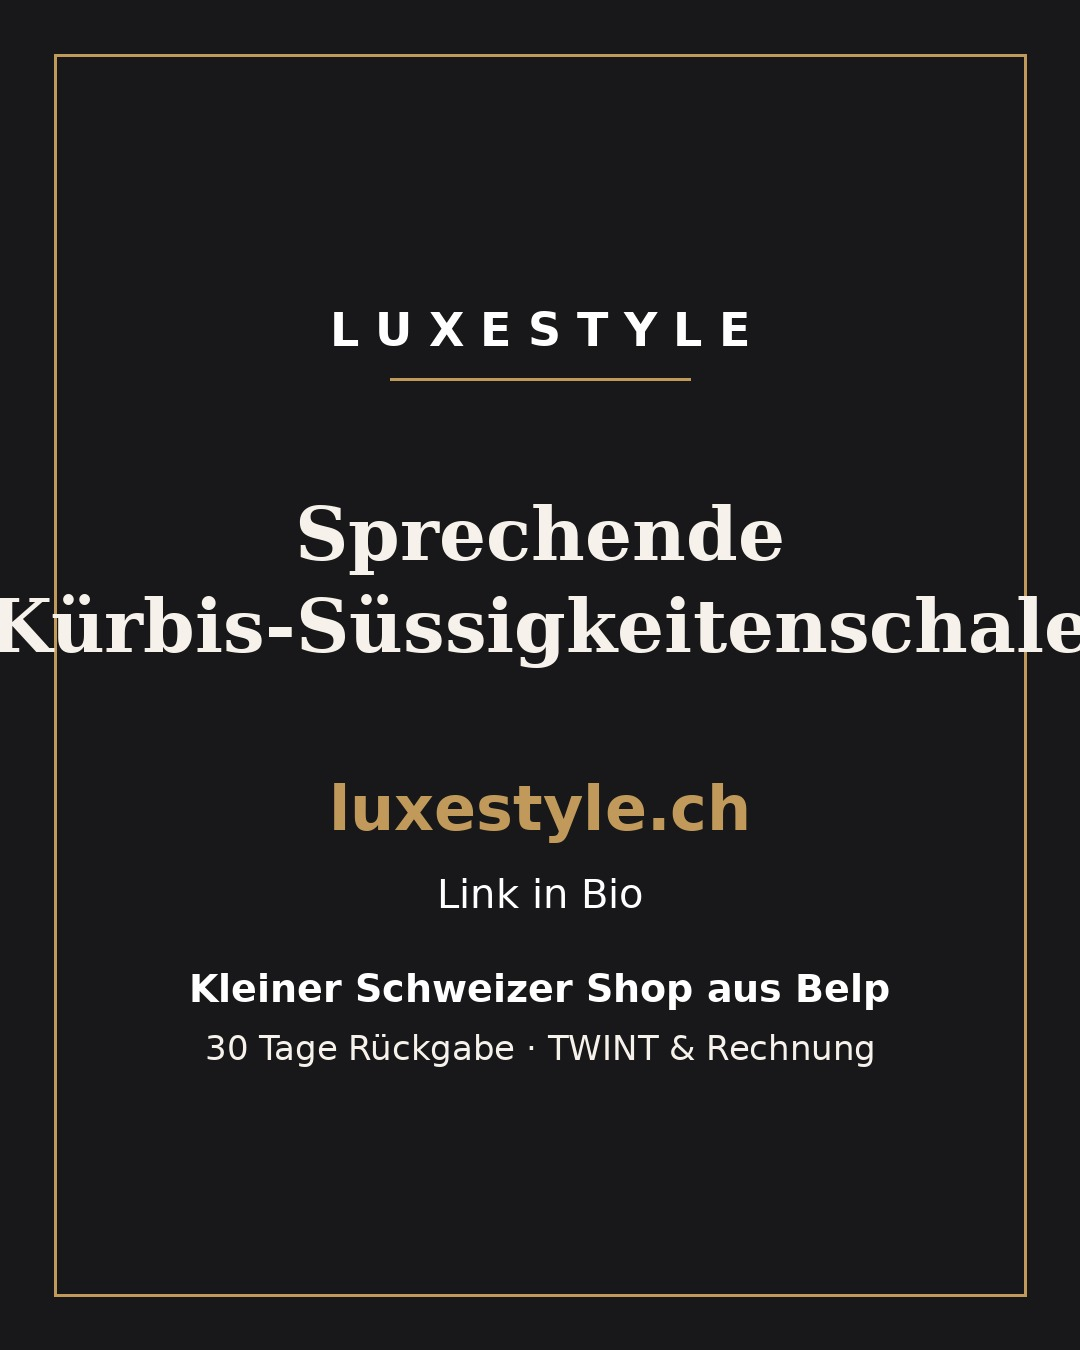
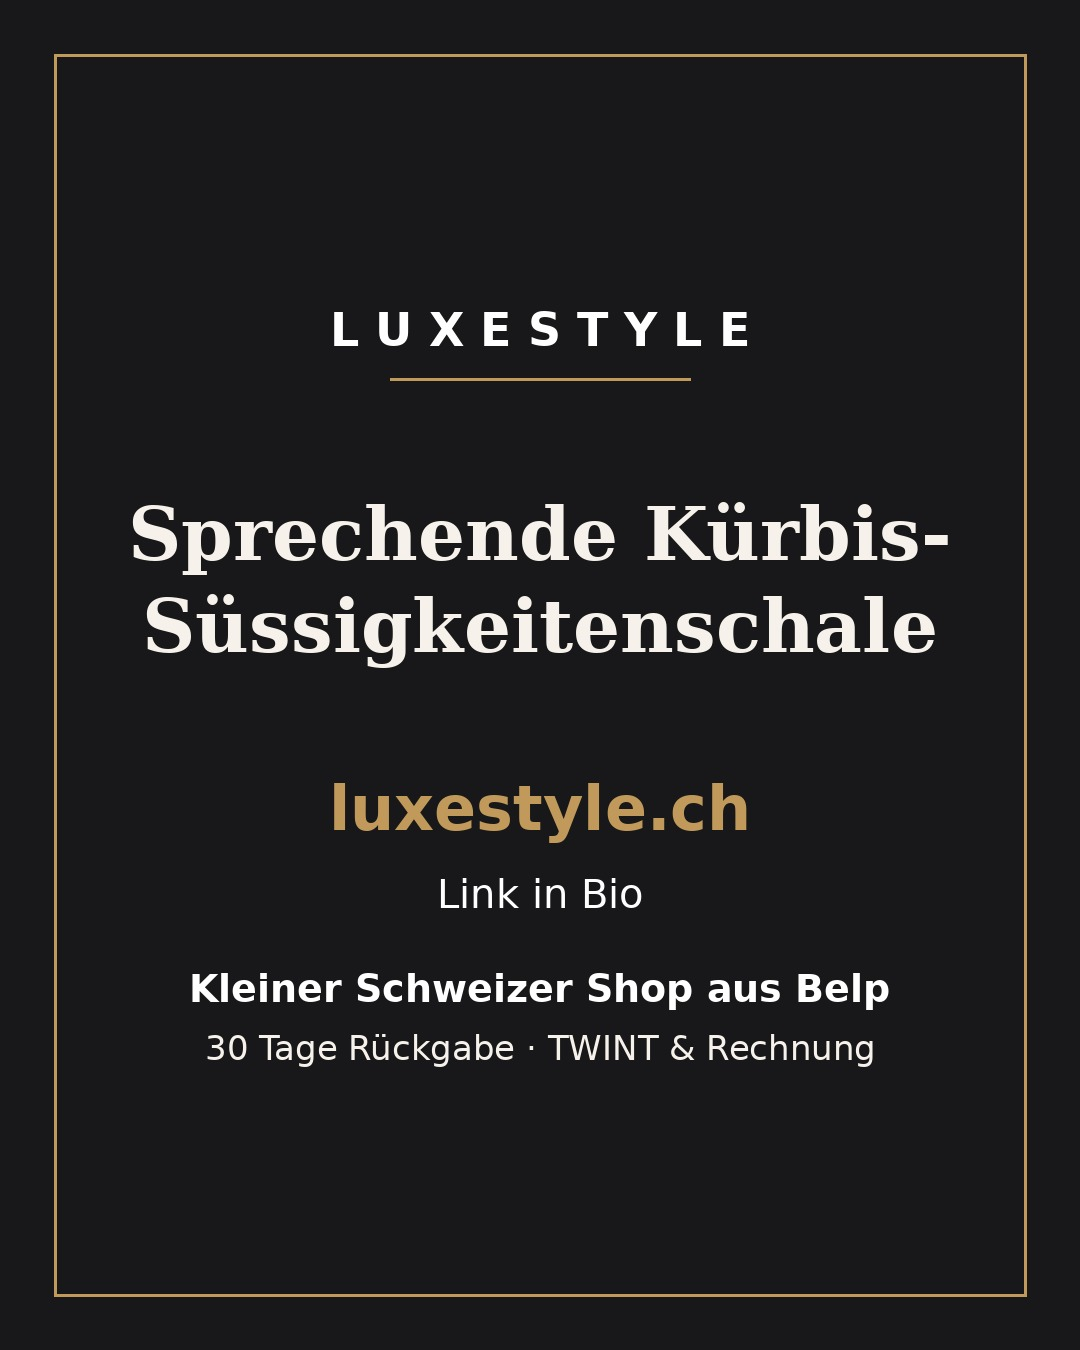
Halloween-Social: Zwischenstand des Nachbesserungs-Agenten (CTA-Umbruch, Familie fuer Top-Sets, Pin-OCR) + Ledger [skip ci]
Claude-Session: https://claude.ai/code/session_01MCYpvsTg9cwVa1SwQZ39f3

Changed region(s): [[0.0, 0.3733, 1.0, 0.4978]]

diff --git a/automation/bild_formate.py b/automation/bild_formate.py
@@ -61,6 +61,85 @@ F_FALLBACK = "/usr/share/fonts/truetype/dejavu/DejaVuSans-Bold.ttf"
 UA = {"User-Agent": "Mozilla/5.0 (LuxeStyle bild_formate)"}
 
 
+# ---------------------------------------------------------------- Bildtext (OCR) — Prüfer 23.09.2026 22:58
+# social/pins/aufblasbarer-leuchtender-fga975036.jpg trug «LIGHT-UP AIRBLOWN INFLATABLES INDOOR & OUTDOOR USE»: englischer
+# Lieferantentext im Pin. GEMESSEN an allen 11 Pin-Quellbildern des Manifests: das Aufblas-Bild liest bildtext_pruefen.woerter()
+# bei 1× mit 3 Wörtern (UNTER der Schwelle 4), bei 2× mit 4; alle zehn sauberen Bilder lesen 0 bei 1× UND 2×. Darum ZWEI
+# Lesarten (1× und 2×, längste Kante ≤ 3200 px) und das Maximum — ab WORTGRENZE (4) wird das Bild verworfen und das nächste
+# Produktbild versucht; trägt jedes Bild Text, wird das Produkt übersprungen (Vermerk social/pins/_uebersprungen.tsv).
+# Jede Messung steht in social/pins/_bildtext.tsv (name, url ohne ?v=, woerter, geprueft); der Pinner liest sie, damit er für
+# ein Text-Hauptbild NICHT aufs Rohbild zurückfällt. Ohne tesseract (bildtext_pruefen beendet sich beim Import mit exit 0)
+# wird nichts verworfen und nichts als «sauber» eingetragen — −1 heisst unbekannt, nicht sauber.
+def _ocr_laden():
+    try:
+        import bildtext_pruefen as bp
+        return bp.woerter, int(bp.WORTGRENZE)
+    except (ImportError, SystemExit, Exception):
+        return None, 4
+
+
+_OCR_WOERTER, WORTGRENZE = _ocr_laden()
+BILDTEXT_NAME, UEBERSPRUNGEN_NAME = "_bildtext.tsv", "_uebersprungen.tsv"
+BT_SPALTEN = ["name", "url", "woerter", "geprueft"]
+_jetzt = lambda: datetime.now(timezone.utc).strftime("%Y-%m-%dT%H:%M:%SZ")
+
+
+def bildtext_lesen():
+    p = os.path.join(OUT, BILDTEXT_NAME)
+    if not os.path.exists(p):
+        return {}
+    with open(p, newline="", encoding="utf-8") as fh:
+        return {r["url"]: r for r in csv.DictReader(fh, delimiter="\t")}
+
+
+def bildtext_schreiben(bt):
+    p = os.path.join(OUT, BILDTEXT_NAME)
+    os.makedirs(OUT, exist_ok=True)
+    tmp = p + ".tmp"
+    with open(tmp, "w", newline="", encoding="utf-8") as fh:
+        w = csv.DictWriter(fh, fieldnames=BT_SPALTEN, delimiter="\t", lineterminator="\n")
+        w.writeheader()
+        for k in sorted(bt):
+            w.writerow({c: bt[k].get(c, "") for c in BT_SPALTEN})
+    os.replace(tmp, p)
+
+
+def bildtext_woerter(im, url, name, bt):
+    """Grösste Wortzahl aus zwei Lesarten (1×, 2×); −1 = nicht messbar. Ergebnis je URL (ohne ?v=) gemerkt."""
+    key = url.split("?")[0]
+    if key in bt:
+        try:
+            return int(bt[key]["woerter"])
+        except (TypeError, ValueError):
+            pass
+    if _OCR_WOERTER is None:
+        return -1
+    try:
+        g = im.convert("L")
+        n = len(_OCR_WOERTER(g))
+        s = min(2.0, 3200 / max(g.size))
+        if s > 1.05:
+            n = max(n, len(_OCR_WOERTER(g.resize((int(g.width * s), int(g.height * s)), Image.LANCZOS))))
+    except Exception:
+        return -1
+    bt[key] = {"name": name, "url": key, "woerter": str(n), "geprueft": _jetzt()}
+    if not DRY:
+        bildtext_schreiben(bt)
+    return n
+
+
+def uebersprungen_merken(name, grund):
+    if DRY:
+        return
+    p = os.path.join(OUT, UEBERSPRUNGEN_NAME)
+    os.makedirs(OUT, exist_ok=True)
+    neu = not os.path.exists(p)
+    with open(p, "a", encoding="utf-8") as fh:
+        if neu:
+            fh.write("name\tgrund\tgeprueft\n")
+        fh.write(f"{name}\t{grund}\t{_jetzt()}\n")
+
+
 def font(pfad, px):
     try:
         return ImageFont.truetype(pfad, px)
@@ -105,7 +184,7 @@ def produkte(handles):
         teil = handles[i:i + 20]
         felder = " ".join(
             f'p{j}: productByIdentifier(identifier:{{handle:{json.dumps(h)}}}){{ handle title status onlineStoreUrl '
-            f'priceRangeV2{{ minVariantPrice{{amount}} maxVariantPrice{{amount}} }} images(first:1){{ nodes{{ url width height }} }} }}'
+            f'priceRangeV2{{ minVariantPrice{{amount}} maxVariantPrice{{amount}} }} images(first:6){{ nodes{{ url width height }} }} }}'
             for j, h in enumerate(teil))
         d = gql("query{ " + felder + " }")
         for j, h in enumerate(teil):
@@ -116,7 +195,7 @@ def produkte(handles):
             aus[h] = {"title": p["title"], "status": p["status"], "url": p["onlineStoreUrl"],
                       "min": float(p["priceRangeV2"]["minVariantPrice"]["amount"]),
                       "max": float(p["priceRangeV2"]["maxVariantPrice"]["amount"]),
-                      "bild": n[0] if n else None}
+                      "bild": n[0] if n else None, "bilder": n}   # bilder: Hauptbild zuerst, bis 5 Ersatzbilder (OCR-Tor)
     return aus
 
 
@@ -352,7 +431,9 @@ def index_lesen():
         return {(r["name"], r["format"]): r for r in csv.DictReader(fh, delimiter="\t")}
 
 
-SPALTEN = ["name", "format", "datei", "preis_min", "preis_max", "preis_text", "bild", "quelle_px", "modus", "kb", "sha1", "erstellt"]
+# hauptbild (23.09. abends): das Hauptbild des Shops zur Renderzeit — `bild` ist die tatsächlich genutzte Quelle (kann nach dem
+# OCR-Tor ein Ersatzbild sein). Der Pinner prüft «Hauptbild getauscht?» gegen hauptbild, sonst gälte jede Ersatz-Fassung als alt.
+SPALTEN = ["name", "format", "datei", "preis_min", "preis_max", "preis_text", "bild", "hauptbild", "quelle_px", "modus", "kb", "sha1", "erstellt"]
 
 
 def index_schreiben(idx):
@@ -377,19 +458,40 @@ def schreiben(daten, rel):
 
 
 # ---------------------------------------------------------------- Ablauf
-def verarbeiten(name, bild_url, titel, pmin, pmax, formate, idx, ergebnisse, bekannte_px=None):
+def verarbeiten(name, bilder, titel, pmin, pmax, formate, idx, ergebnisse, bt=None):
+    """`bilder`: Liste {url[,width,height]} — Hauptbild zuerst. Das erste Bild, das gross genug ist UND kein Lieferantentext
+    trägt (OCR-Tor, Prüfer 23.09.), wird gerendert; die Gründe der verworfenen stehen im Log."""
     name = re.sub(r"[^a-z0-9-]+", "-", name.lower()).strip("-")[:120]
-    if bekannte_px and min(bekannte_px) < MIN_PX:
-        print(f"  ✗ {name}: Quelle {bekannte_px[0]}×{bekannte_px[1]} < {MIN_PX} px → abgelehnt")
-        ergebnisse.append({"name": name, "status": "abgelehnt", "px": bekannte_px}); return
-    try:
-        im = vorbereiten(laden(bild_url))
-    except Exception as e:
-        print(f"  ✗ {name}: Bild nicht ladbar ({str(e)[:80]})")
-        ergebnisse.append({"name": name, "status": "fehler"}); return
-    if min(im.size) < MIN_PX:
-        print(f"  ✗ {name}: Quelle {im.size[0]}×{im.size[1]} < {MIN_PX} px → abgelehnt")
-        ergebnisse.append({"name": name, "status": "abgelehnt", "px": im.size}); return
+    bt = {} if bt is None else bt
+    hauptbild = (bilder[0]["url"] if bilder else "").split("?")[0]
+    im, quelle, gruende = None, None, []
+    for k, b in enumerate(bilder, 1):
+        u = b["url"]
+        px = (b.get("width"), b.get("height")) if b.get("width") and b.get("height") else None
+        if px and min(px) < MIN_PX:
+            gruende.append(f"Bild {k} {px[0]}×{px[1]} < {MIN_PX} px"); continue
+        try:
+            kand = vorbereiten(laden(u))
+        except Exception as e:
+            gruende.append(f"Bild {k} nicht ladbar ({str(e)[:60]})"); continue
+        if min(kand.size) < MIN_PX:
+            gruende.append(f"Bild {k} {kand.size[0]}×{kand.size[1]} < {MIN_PX} px"); continue
+        n = bildtext_woerter(kand, u, name, bt)
+        if n >= WORTGRENZE:
+            print(f"  ✗ {name}: Bild {k} trägt Text ({n} Wörter, OCR) → nächstes Bild")
+            gruende.append(f"Bild {k} Text ({n} Wörter)"); continue
+        im, quelle = kand, u
+        if k > 1:
+            print(f"  ↷ {name}: Bild {k} statt Hauptbild ({'; '.join(gruende)})")
+        break
+    if im is None:
+        grund = "; ".join(gruende) or "kein Bild"
+        status = ("bildtext" if any("Text" in g for g in gruende) else
+                  "abgelehnt" if any(" px" in g for g in gruende) else "fehler")
+        print(f"  ✗ {name}: übersprungen — {grund}")
+        if status == "bildtext":
+            uebersprungen_merken(name, grund)
+        ergebnisse.append({"name": name, "status": status}); return
     im = rahmen_weg(im)  # nach der Grössenprüfung: 1–3 px Rahmen dürfen ein 600er-Bild nicht durchfallen lassen
     for fmt in formate:
         if fmt == "pin":
@@ -412,7 +514,7 @@ def verarbeiten(name, bild_url, titel, pmin, pmax, formate, idx, ergebnisse, bek
             schreiben(daten, rel)
             idx[(name, fmt)] = {"name": name, "format": fmt, "datei": rel, "preis_min": f"{pmin:.2f}" if pmin is not None else "",
                                 "preis_max": f"{pmax:.2f}" if pmax is not None else "", "preis_text": pt,
-                                "bild": bild_url.split("?")[0], "quelle_px": f"{im.size[0]}x{im.size[1]}", "modus": log["modus"],
+                                "bild": quelle.split("?")[0], "hauptbild": hauptbild, "quelle_px": f"{im.size[0]}x{im.size[1]}", "modus": log["modus"],
                                 "kb": str(kb), "sha1": sha, "erstellt": datetime.now(timezone.utc).strftime("%Y-%m-%dT%H:%M:%SZ")}
         else:
             zeile += " [DRY, nicht geschrieben]"
@@ -455,18 +557,19 @@ def main():
     a = ap.parse_args()
     formate = [f for f in a.formate.split(",") if f in FORMATE]
     idx = index_lesen()
+    bt = bildtext_lesen()
     erg = []
-    print(f"bild_formate {'DRY ' if DRY else ''}→ {OUT} · Formate {','.join(formate)}")
+    print(f"bild_formate {'DRY ' if DRY else ''}→ {OUT} · Formate {','.join(formate)} · OCR-Tor {'aktiv' if _OCR_WOERTER else 'NICHT messbar'}")
     if a.url:
         if not a.name:
             ap.error("--url braucht --name")
-        verarbeiten(a.name, a.url, a.titel, a.preis, a.preis, formate, idx, erg)
+        verarbeiten(a.name, [{"url": a.url}], a.titel, a.preis, a.preis, formate, idx, erg, bt)
     if a.posts_ready:
         pfad = os.path.join(REPO, "social", "posts_image.csv")
         with open(pfad, newline="", encoding="utf-8") as fh:
             zeilen = [r for r in csv.DictReader(fh) if r.get("status") == "ready"][: a.posts_ready]
         for r in zeilen:
-            verarbeiten(r["id"], r["image_url"], None, None, None, ["ig45"], idx, erg)
+            verarbeiten(r["id"], [{"url": r["image_url"]}], None, None, None, ["ig45"], idx, erg, bt)
     if a.handles:
         info = produkte(a.handles)
         for h in a.handles:
@@ -477,9 +580,7 @@ def main():
                 print(f"  ✗ {h}: {p['status']}, {'ohne' if not p['url'] else 'mit'} Onlineshop → übersprungen"); erg.append({"name": h, "status": "nicht-aktiv"}); continue
             if not p["bild"]:
                 print(f"  ✗ {h}: kein Bild"); erg.append({"name": h, "status": "kein-bild"}); continue
-            b = p["bild"]
-            px = (b["width"], b["height"]) if b.get("width") and b.get("height") else None
-            verarbeiten(h, b["url"], p["title"], p["min"], p["max"], formate, idx, erg, px)
+            verarbeiten(h, p["bilder"], p["title"], p["min"], p["max"], formate, idx, erg, bt)
     if not DRY and any(e["status"] == "ok" for e in erg):
         os.makedirs(OUT, exist_ok=True)
         index_schreiben(idx)

diff --git a/automation/tiktok_karussell.py b/automation/tiktok_karussell.py
@@ -303,19 +303,50 @@ def f(pfad, groesse):
     return ImageFont.truetype(pfad, groesse)
 
 
+def _teile(w):
+    """«Kürbis-Süssigkeitenschale» → ['Kürbis-', 'Süssigkeitenschale']: der Bindestrich bleibt am Zeilenende."""
+    kern = w.strip("-")
+    if "-" not in kern:
+        return [w]
+    st = w.split("-")
+    return [s + "-" for s in st[:-1] if s] + [st[-1]]
+
+
 def umbrechen(d, text, schrift, breite):
-    worte, zeilen, zeile = text.split(), [], ""
-    for w in worte:
+    """Greedy-Umbruch an Leerzeichen; ein Wort, das allein nicht in die Breite passt, wird am Bindestrich
+    gebrochen (Prüfer 23.09.: «Kürbis-Süssigkeitenschale» lief auf dem CTA-Slide von x=0 bis x=1079 über den
+    Goldrahmen hinaus, weil nur an Leerzeichen gebrochen wurde). Passt auch ein Teil nicht, bleibt die Zeile
+    breiter als `breite` — der Aufrufer prüft das mit passt_breite() und verkleinert die Schrift, nie abschneiden."""
+    zeilen, zeile = [], ""
+    passt = lambda s: d.textlength(s, font=schrift) <= breite
+    for w in text.split():
         probe = (zeile + " " + w).strip()
-        if d.textlength(probe, font=schrift) <= breite:
+        if passt(probe):
             zeile = probe
-        else:
+            continue
+        teile = _teile(w)
+        if len(teile) == 1 or passt(w):            # ganzes Wort auf die naechste Zeile, wenn es dort Platz hat
             if zeile:
                 zeilen.append(zeile)
             zeile = w
+            continue
+        klebt = False                              # nach einem «Kürbis-» folgt der Rest ohne Leerzeichen
+        for t in teile:
+            probe = (zeile + t) if klebt else (zeile + " " + t).strip()
+            if passt(probe):
+                zeile = probe
+            else:
+                if zeile:
+                    zeilen.append(zeile)
+                zeile = t
+            klebt = True
     if zeile:
         zeilen.append(zeile)
     return zeilen
+
+
+def passt_breite(d, zeilen, schrift, breite):
+    return all(d.textlength(z, font=schrift) <= breite for z in zeilen)
 
 
 def grund(bildpfad, oben=0.20, hoehe=0.60):
@@ -405,8 +436,13 @@ def slide_produkt(bildpfad, titel, preis, nummer, gesamt, zeile=None):
     img = scrim(grund(bildpfad, oben=PROD_OBEN, hoehe=PROD_HOEHE))
     d = ImageDraw.Draw(img)
     marke(d, nummer, gesamt)
-    schrift = f(SERIF, 60)
-    zeilen = umbrechen(d, titel, schrift, B - 130)[:3]
+    groesse = 60
+    while True:                                    # Prüfer 23.09.: dieselbe Breiten-Wache wie auf dem CTA-Slide
+        schrift = f(SERIF, groesse)
+        zeilen = umbrechen(d, titel, schrift, B - 130)[:3]
+        if passt_breite(d, zeilen, schrift, B - 130) or groesse <= 36:
+            break
+        groesse -= 4
     y = H - PROD_UNTEN - len(zeilen) * 74
     for z in zeilen:
         d.text((66, y + 3), z, font=schrift, fill=(0, 0, 0))
@@ -434,7 +470,11 @@ def slide_cta(titelzeile):
     while True:
         schrift = f(SERIF, groesse)
         zeilen = umbrechen(d, titelzeile, schrift, B - 220)
-        if y0 + len(zeilen) * (groesse + 18) + 330 + 60 <= H or groesse <= 48:
+        hoehe_ok = y0 + len(zeilen) * (groesse + 18) + 330 + 60 <= H
+        # Prüfer 23.09. 22:58: BREITE zuerst — kein Wortteil darf ueber den Goldrahmen (x 55/1025) laufen. Passt ein Teil
+        # auch nach dem Bindestrich-Umbruch nicht in B-220, schrumpft die Schrift weiter (bis 30 px) statt abzuschneiden.
+        breite_ok = passt_breite(d, zeilen, schrift, B - 220)
+        if (breite_ok and (hoehe_ok or groesse <= 48)) or groesse <= 30:
             break
         groesse -= 6
     y = y0
